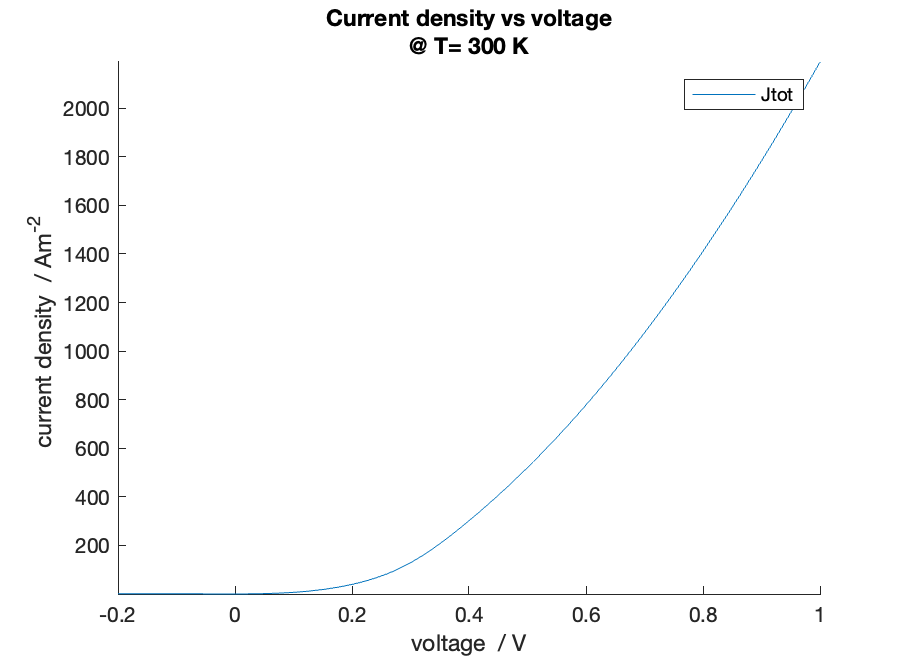
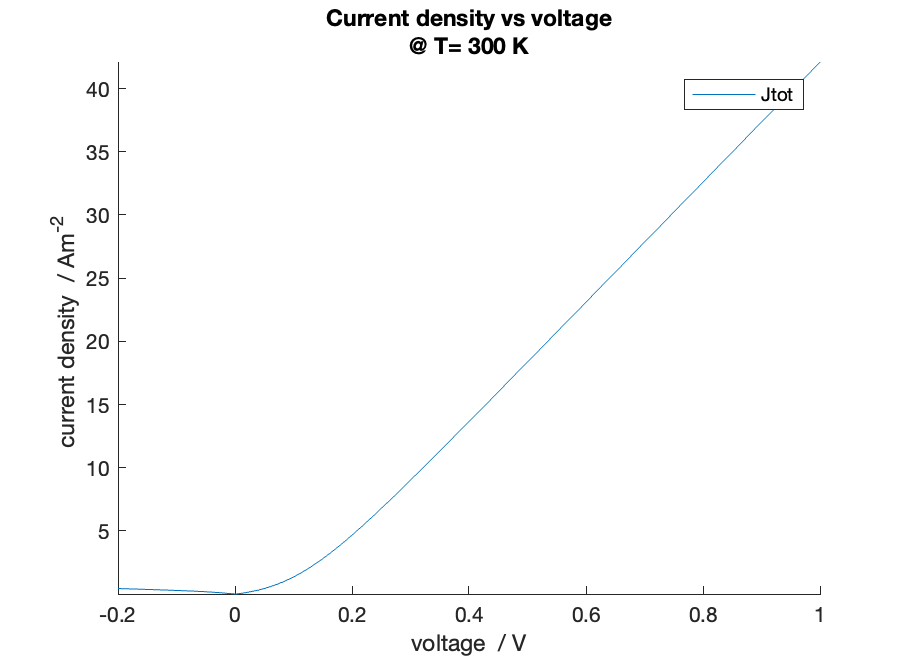
new2

diff --git a/main_IV.m b/main_IV.m
@@ -25,8 +25,8 @@ device.material = silicon_material_properties(T0);
 % physical constants and parameters
 secs1d_physical_constants;
 
-device.doping.NA = 1E14; % [m^3] 5E23
-device.doping.ND = 1E23; % [m^3]
+device.doping.NA = 5E17; % [m^3]
+device.doping.ND = 1E17; % [m^3]
 
 % set device geometry
 device.geometry.length         = 50e-6; % [m]
